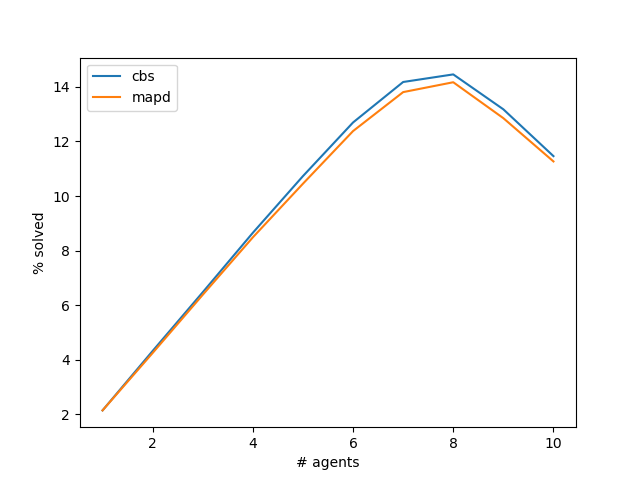
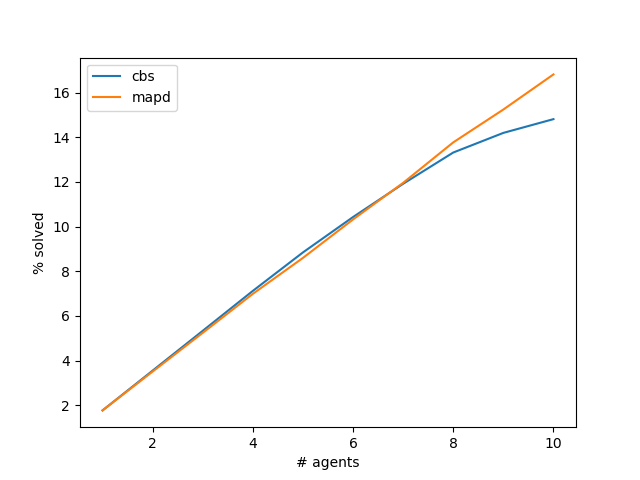
cbs eval

diff --git a/input/evaluate_cbs.py b/input/evaluate_cbs.py
@@ -45,6 +45,7 @@ def plot_solved_containers(configs, solved_dict, num_list):
     plt.savefig("solved_containers_cbs__{}.png".format(COMPARE_NAME))
     plt.cla()
 
+
 def scatter_dict(configs, data_dict, stat_name, data_type=int, fail_val=0, log_scale=False, val_range=[]):
     cbs_vals = []
     comp_vals = []
@@ -94,23 +95,30 @@ def main():
                     solved_dict[0][config] = not row["result"]
                     if not row["result"]:
                         makespan_dict[0][config] = row["makespan"]
-                        runtime_dict[0][config] = float(row["runtime"]) * 1000
+                        runtime_dict[0][config] = float(row["t_total"]) * 1000
             with open(os.path.join(COMPARE_PATH, str(g), str(s) + ".csv")) as file:
                 reader = csv.DictReader(file)
                 for row in reader:
-                    config = (g, s, row["a"], row["c"], row["b"])
-                    if config not in configs:
+                    a = row["a"]
+                    c = row["c"]
+                    config = (g, s, a, c, row["b"])
+                    if int(c) > int(a):
                         continue
+                    agent_nums.add(int(a))
+                    container_nums.add(int(c))
+                    if config not in configs:
+                        configs.append(config)
+                        solved_dict[0][config] = False
                     solved_dict[1][config] = not row["result"]
                     if not row["result"]:
                         makespan_dict[1][config] = row["makespan"]
-                        runtime_dict[1][config] = float(row["t_solver"])
+                        runtime_dict[1][config] = float(row["t_total"])
             assert (all(c in solved_dict[1] for c in configs))
 
     plot_solved_agents(configs, solved_dict, sorted(list(agent_nums)))
     plot_solved_containers(configs, solved_dict, sorted(list(container_nums)))
     scatter_dict(configs, makespan_dict, "makespan")
-    scatter_dict(configs, runtime_dict, "t_solver", data_type=float, fail_val='600', log_scale=True, val_range=[1e-2, 1e6])
+    scatter_dict(configs, runtime_dict, "t_total", data_type=float, fail_val='600000', log_scale=True, val_range=[1, 1e6])
 
 
 if __name__ == '__main__':

diff --git a/input/cbs/convert_properties.py b/input/cbs/convert_properties.py
@@ -1,0 +1,53 @@
+import json
+import csv
+import os
+
+PROP_PATH = "./data/experiments-eval/properties"
+OUT_PATH = "."
+
+CSV_HEADER = ["g", "b", "a", "c", "seed", "timeout", "memout", "result", "makespan", "t_total", "t_solver",
+              "h_expanded", "l_expanded"]
+
+
+def sort_data(data):
+    data_dict = {}
+    for key, value in data.items():
+        g, b, a, c, s = [v[1:] for v in key.split("-")]
+        if g not in data_dict:
+            data_dict[g] = {}
+        if s not in data_dict[g]:
+            data_dict[g][s] = []
+        line = [g, b, a, c, s, str(value["time_limit"]), str(value["memory_limit"])]
+        if value["solved"]:
+            line += ["", str(value["makespan"]), str(value["t_total"]), str(value["t_solver"]),
+                     str(value["high_level_expansion"]), str(value["low_level_expansion"])]
+        else:
+            if value["unsolvable"]:
+                line += ["Unsolvable"]
+            else:
+                line += ["Timeout"]
+            line += [""] * 5
+        data_dict[g][s].append(line)
+    return data_dict
+
+
+def main():
+    with open(PROP_PATH, "r") as file:
+        props = file.read()
+    data = json.loads(props)
+    data_dict = sort_data(data)
+
+    for g, s_dict in data_dict.items():
+        g_path = os.path.join(OUT_PATH, g)
+        if not os.path.exists(g_path):
+            os.mkdir(g_path)
+        for s, lines in s_dict.items():
+            csv_path = os.path.join(g_path, s + ".csv")
+            with open(csv_path, "w") as f:
+                writer = csv.writer(f)
+                writer.writerow(CSV_HEADER)
+                writer.writerows(lines)
+
+
+if __name__ == '__main__':
+    main()
